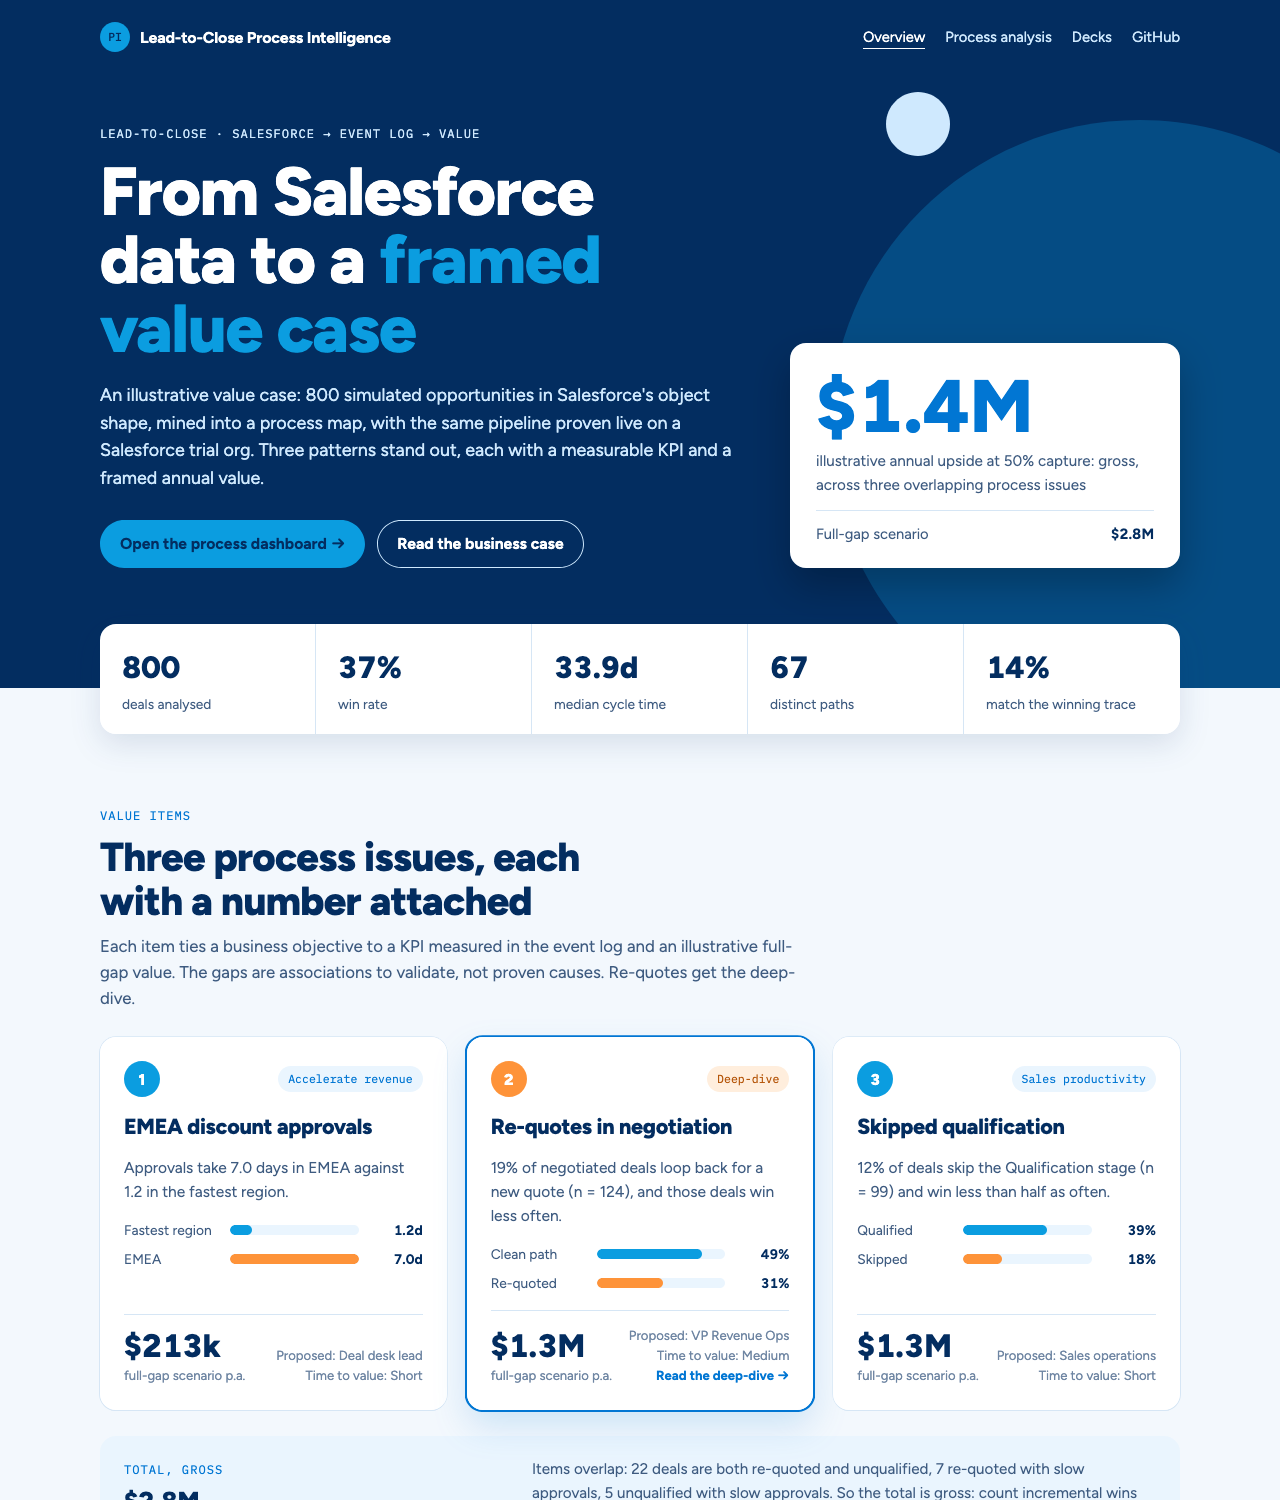
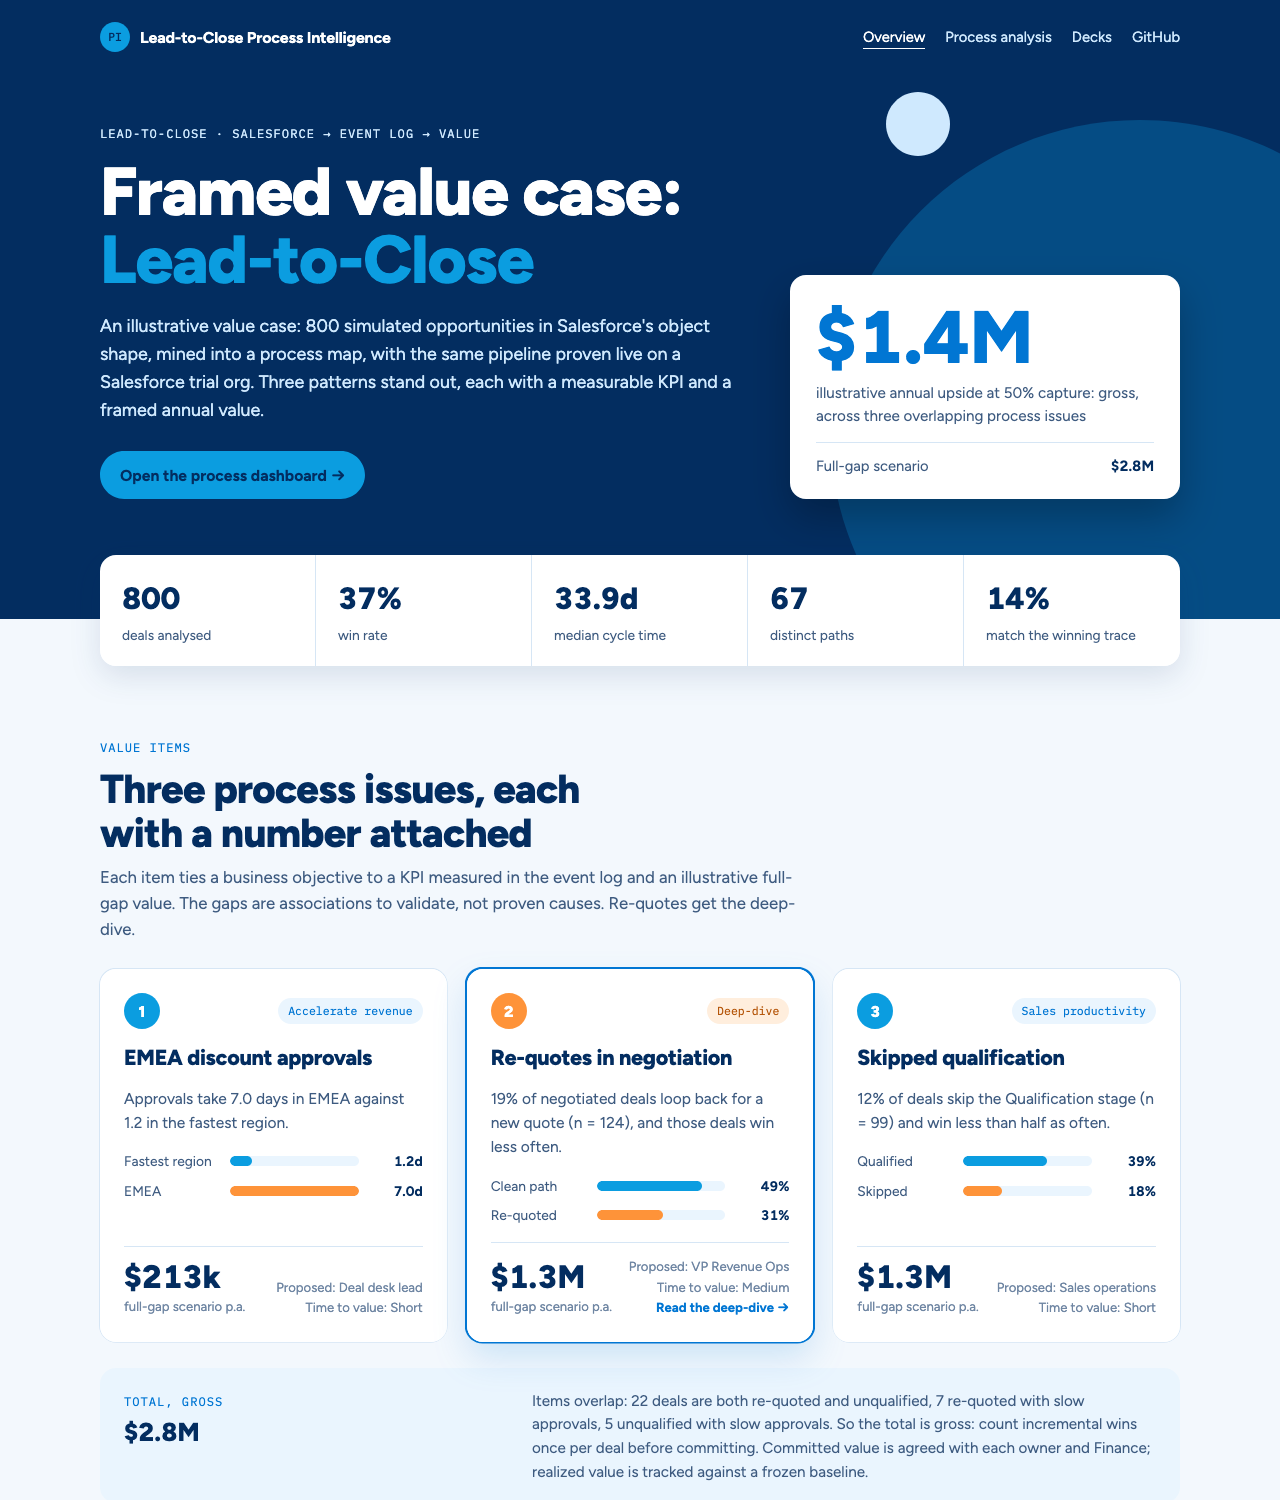
Site: name the hero after the value case

Changed region(s): [[0.0625, 0.4907, 0.9062, 1.0], [0.0, 0.092, 1.0, 0.4907]]

diff --git a/dashboard/landing.template.html b/dashboard/landing.template.html
@@ -223,7 +223,7 @@ footer .inner { display: grid; gap: 6px; }
     <div class="hero-grid">
       <div>
         <div class="eyebrow">Lead-to-close · Salesforce → event log → value</div>
-        <h1>From Salesforce data to a <em>framed value case</em></h1>
+        <h1>Framed value case: <em>Lead-to-Close</em></h1>
         <p class="lede" id="lede"></p>
         <div class="ctas">
           <a class="btn btn-primary" href="./dashboard.html">Open the process dashboard →</a>

diff --git a/site/index.html b/site/index.html
@@ -230,7 +230,7 @@ footer .inner { display: grid; gap: 6px; }
     <div class="hero-grid">
       <div>
         <div class="eyebrow">Lead-to-close · Salesforce → event log → value</div>
-        <h1>From Salesforce data to a <em>framed value case</em></h1>
+        <h1>Framed value case: <em>Lead-to-Close</em></h1>
         <p class="lede" id="lede"></p>
         <div class="ctas">
           <a class="btn btn-primary" href="./dashboard.html">Open the process dashboard →</a>
